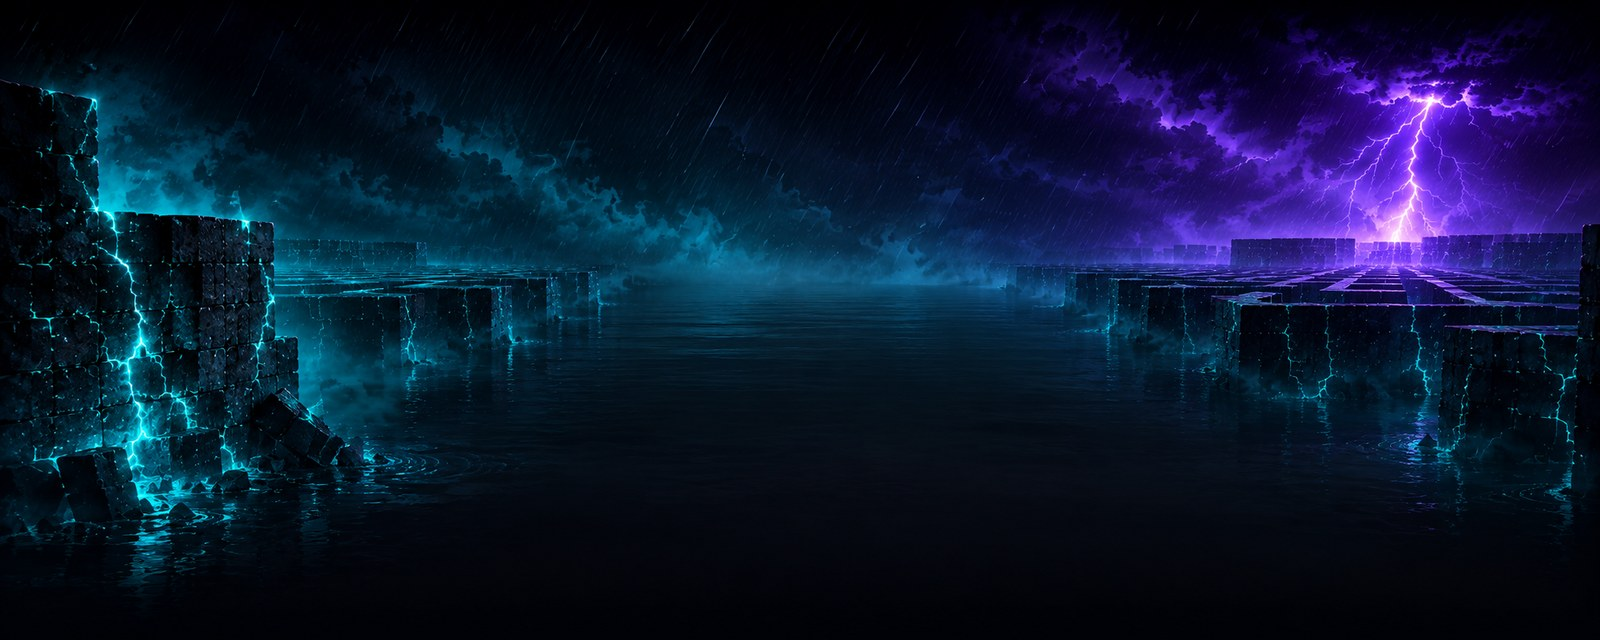
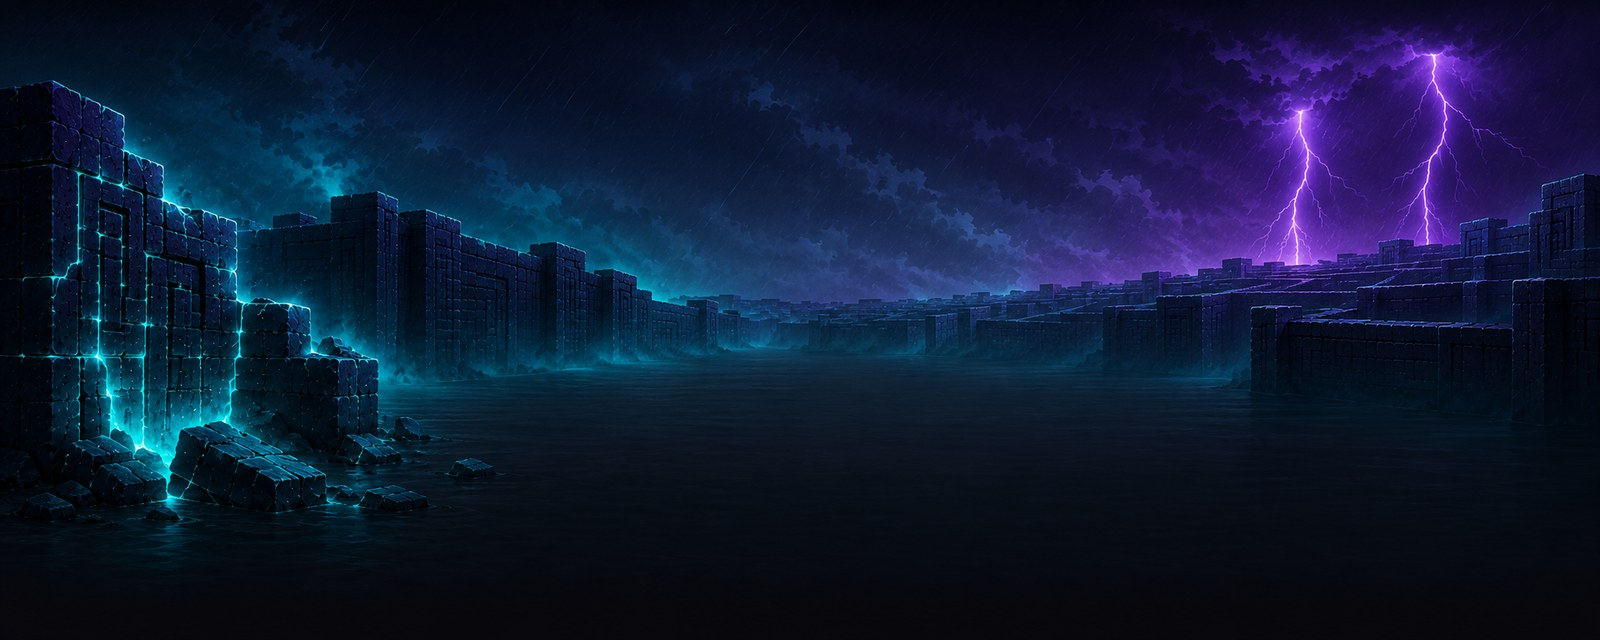
Zwei neue DP-Kauf-Packs (Solfatara 20 / Origami 40) + Voltaris-Rework
Solfatara heisst so, weil das Motiv eine ist: ein Schwefelfeld mit Fumarolen,
Krusten und heissen Becken (nach der Solfatara di Pozzuoli). Damit dieselbe
Sorte Name wie "Salar" (Salzpfanne) und in beiden Sprachen identisch.

Farben aus den leuchtenden Stellen der Motive gemessen. Solfatara lag dabei in
einer echten KOLLISION, und die ist beim Messen aufgefallen, nicht beim
Anschauen: Schwefelgelb h~45 + Dampf-Tuerkis h~175 ist genau das Paar, das
"paradox" seit zwei Wochen traegt. Als Verlauf nebeneinander gerendert waren
die beiden nicht auseinanderzuhalten. Aufgeloest ueber die HELLIGKEIT, nicht
ueber den Farbton (der gehoert dem Bild): Solfatara nimmt das Gelb bei voller
Saettigung -- der schaerfste Gelbton im Register -- und den Dampf als blasse
Minze (L 0,72); Paradox bleibt mattes Gold auf dichtem Meergruen (L 0,40). Der
Verlauf laeuft damit beim einen ins Helle, beim anderen ins Dunkle.

Origami ist der dritte fast unbunte Satz nach Obsidian (kuehl) und Quecksilber
(blau-chrom) und trennt sich als einziger ueber die WAERME: Papierton, leicht
warmes Weiss, vom User gewaehlt. Gemessen werden konnte hier nichts -- das
Motiv ist schwarzweiss; die Farbe ist gesetzt und nicht abgeleitet. a2 ist der
Schattenton desselben Papiers, damit der Verlauf wie eine Faltkante liest.

Voltaris-Rework tauscht nur die vier Bilddateien. a1/a2 bleiben, wie sie sind:
das neue Motiv ist wieder Violett + Cyan, gemessen h~260 und h~187 -- die erst
[…]

diff --git a/src/ui/cosmeticAssets.js b/src/ui/cosmeticAssets.js
@@ -167,6 +167,10 @@ import hanamiFront      from "../assets/cards/decks_player/deck_hanami/front.web
 import hanamiBack       from "../assets/cards/decks_player/deck_hanami/back.webp";
 import nimbusFront      from "../assets/cards/decks_player/deck_nimbus/front.webp";
 import nimbusBack       from "../assets/cards/decks_player/deck_nimbus/back.webp";
+import solfataraFront   from "../assets/cards/decks_player/deck_solfatara/front.webp";
+import solfataraBack    from "../assets/cards/decks_player/deck_solfatara/back.webp";
+import origamiFront     from "../assets/cards/decks_player/deck_origami/front.webp";
+import origamiBack      from "../assets/cards/decks_player/deck_origami/back.webp";
 import bfArcadeDesktop     from "../assets/battlefields/bf_arcade/desktop.jpg";
 import bfArcadeMobile      from "../assets/battlefields/bf_arcade/mobile.jpg";
 import bfPolarlichtDesktop from "../assets/battlefields/bf_polarlicht/desktop.jpg";
@@ -215,6 +219,10 @@ import bfHanamiDesktop      from "../assets/battlefields/bf_hanami/desktop.jpg";
 import bfHanamiMobile       from "../assets/battlefields/bf_hanami/mobile.jpg";
 import bfNimbusDesktop      from "../assets/battlefields/bf_nimbus/desktop.jpg";
 import bfNimbusMobile       from "../assets/battlefields/bf_nimbus/mobile.jpg";
+import bfSolfataraDesktop   from "../assets/battlefields/bf_solfatara/desktop.jpg";
+import bfSolfataraMobile    from "../assets/battlefields/bf_solfatara/mobile.jpg";
+import bfOrigamiDesktop     from "../assets/battlefields/bf_origami/desktop.jpg";
+import bfOrigamiMobile      from "../assets/battlefields/bf_origami/mobile.jpg";
 
 // id → { front, back }. Fällt für unbekannte ids auf DECK_ASSETS.default zurück (siehe deckAssets()).
 export const DECK_ASSETS = {
@@ -272,6 +280,8 @@ export const DECK_ASSETS = {
   deck_paradox:     { front: paradoxFront,     back: paradoxBack },
   deck_hanami:      { front: hanamiFront,      back: hanamiBack },
   deck_nimbus:      { front: nimbusFront,      back: nimbusBack },
+  deck_solfatara:   { front: solfataraFront,   back: solfataraBack },
+  deck_origami:     { front: origamiFront,     back: origamiBack },
 };
 
 // id → Battlefield-Skin (responsive { desktop, mobile }). default = null (aktueller Look ohne
@@ -331,6 +341,8 @@ export const BATTLEFIELD_ASSETS = {
   bf_paradox:     { desktop: bfParadoxDesktop,     mobile: bfParadoxMobile },
   bf_hanami:      { desktop: bfHanamiDesktop,      mobile: bfHanamiMobile },
   bf_nimbus:      { desktop: bfNimbusDesktop,      mobile: bfNimbusMobile },
+  bf_solfatara:   { desktop: bfSolfataraDesktop,   mobile: bfSolfataraMobile },
+  bf_origami:     { desktop: bfOrigamiDesktop,     mobile: bfOrigamiMobile },
 };
 
 export const deckAssets = (id) => DECK_ASSETS[id] || DECK_ASSETS.default;
@@ -346,7 +358,8 @@ export const battlefieldAssets = (id) => BATTLEFIELD_ASSETS[id] || BATTLEFIELD_A
        sie zieht dunkle Bilder hoch und helle herunter.
      · LESBARKEIT ist nirgends das Thema: der schlechteste Kacheltext-Kontrast über alle 40 Decks und
        alle Pixel liegt bei 10,6:1 (WCAG AAA verlangt 7:1). Diese Liste ist eine OPTIK-Entscheidung.
-     · 32 der 40 Decks liegen zwischen 15 und 24. Genau ZWEI fallen sichtbar heraus.
+     · 32 der 40 Decks liegen zwischen 15 und 24. Genau ZWEI fielen damals sichtbar heraus (die Liste
+       unten ist seither auf VIER gewachsen — jeder Zuwachs mit eigener Begründung, s. dort).
 
    Deshalb ein Deckel und keine Normalisierung: hier steht nur, was NACH OBEN begrenzt wird. Dunkle Decks
    bleiben dunkel. Alle Decks auf dieselbe Helligkeit zu ziehen nähme ihnen ihren Charakter — Ascension
@@ -355,15 +368,28 @@ export const battlefieldAssets = (id) => BATTLEFIELD_ASSETS[id] || BATTLEFIELD_A
 
    Der Faktor skaliert die Alpha-Stützstellen des Schleiers (`--vk` in `.as-hub-bg-veil`, index.css);
    die Werte hier bringen ihr Deck rechnerisch auf die Ziel-Helligkeit 24. Ein Eintrag ist eine AUSNAHME —
-   wer hier etwas einträgt, sollte die Messung dazu haben. Nicht eingetragen = Faktor 1. */
+   wer hier etwas einträgt, sollte die Messung dazu haben. Nicht eingetragen = Faktor 1.
+
+   NACHGEMESSEN am 18.08.2026 über 49 Spielfelder (Median 20,8; die Prozente in der Liste unten sind darauf
+   bezogen und darum minimal anders als in den Erstmessungen). Drei Felder sind aus zwei parallelen Sätzen
+   dazugekommen — alle drei nach dem Blick auf den echten Handy-Ausschnitt, nicht allein nach der Zahl:
+     · Origami ist mit 33,0 das zweithellste Feld überhaupt und der einzige fast weiße Hintergrund im
+       Register — ungedämpft blendet er wie Ascension, gedämpft steht er in einer Reihe mit dem Rest.
+     · Solfatara (27,3) und Nimbus (27,1) liegen nur ~30 % über dem Median und wären nach der reinen Zahl
+       Grenzfälle — die Liste hatte die sechs Felder bei 24,1–25,9 (0–8 % darüber) bewusst DRAUSSEN gelassen,
+       weil man dort Rauschen korrigiert. Beide sind trotzdem drin, und zwar wegen der LAGE der Helligkeit,
+       nicht wegen ihrer Höhe: bei Solfatara läuft das Schwefelband waagerecht durch die MITTE des Ausschnitts
+       — also genau durch die Kachelzone — und es ist goldgelb, damit exakt der Fall, den #deck-mobil als
+       offene Schwachstelle benannt hatte („goldener Guthaben-Stripe auf goldgetönter Kachel auf goldenem
+       Bild"); bei Nimbus steht die Quallenglocke als große, gleichmäßig helle Fläche an derselben Stelle.
+       Hanami braucht dagegen keinen Eintrag (22,5 — die Nacht darin ist wirklich dunkel, es leuchten nur
+       Blüten und Lampions). Merksatz: nicht die Höhe der Zahl entscheidet, sondern ob das Helle dort liegt,
+       wo die Kacheln stehen. */
 const BATTLEFIELD_VEIL = {
-  bf_gottgleich: 1.54, // gemessen 35,1 — Median +76 %, mit Abstand der hellste (goldener Lichtdom)
-  bf_pflanze:    1.38, // gemessen 29,0 — Median +46 %, zweiter und letzter sichtbarer Ausreißer
-  /* #deck-nacht: bf_nimbus liegt mit 27,1 zwischen den beiden Gruppen der Messung — über den sechs Feldern bei
-     24,1–25,9 (0–8 % über dem Deckel, bewusst ohne Eintrag: das ist Rauschen) und unter bf_pflanze. Mit 13 % über
-     dem Deckel ist es kein Rauschen mehr: die Quallenglocke ist eine große, gleichmäßig helle Fläche genau dort,
-     wo die Kacheln stehen. Deshalb ein Eintrag. bf_hanami braucht keinen (22,5 — die Nacht darin ist wirklich
-     dunkel, es leuchten nur Blüten und Lampions). */
-  bf_nimbus:     1.28, // gemessen 27,1 — Median +13 %
+  bf_gottgleich: 1.54, // gemessen 35,1 — Median +69 %, mit Abstand der hellste (goldener Lichtdom)
+  bf_origami:    1.57, // gemessen 33,0 — Median +59 %, zweithellster; einziger fast weißer Hintergrund
+  bf_pflanze:    1.38, // gemessen 29,0 — Median +39 %
+  bf_solfatara:  1.37, // gemessen 27,3 — Median +31 %, s. Begründung oben (Lage des hellen Bandes)
+  bf_nimbus:     1.28, // gemessen 27,1 — Median +30 %, s. Begründung oben (Fläche der Quallenglocke)
 };
 export const battlefieldVeil = (id) => BATTLEFIELD_VEIL[id] || 1;

diff --git a/src/game/themes.js b/src/game/themes.js
@@ -342,6 +342,27 @@ export const THEME_DEFS = {
     deckId: "deck_hanami", bfId: "bf_hanami", els: ["deck", "bf"] },
   nimbus: { id: "nimbus", name: packName("deck_nimbus"), emblem: "🪼", kind: "buy", price: 10, a1: "#9558e0", a2: "#ff77b0",
     deckId: "deck_nimbus", bfId: "bf_nimbus", els: ["deck", "bf"] },
+  /* ---- #deck-papier zwei DP-Kauf-Packs ----
+     SOLFATARA stand bei der Wahl in einer echten FARBKOLLISION, und die ist beim Messen aufgefallen, nicht beim
+     Anschauen: das Motiv (Schwefelkrusten + türkiser Dampf) ergibt gemessen h≈45 + h≈175 — und genau dieses Paar
+     trug `paradox` damals (#e0b83c / #16b8a4). Als Verlauf nebeneinander gerendert waren die beiden nicht
+     auseinanderzuhalten. Aufgelöst wurde das über die HELLIGKEIT statt über den Farbton, weil der Farbton dem Bild
+     gehört: Solfatara nimmt das Gelb bei voller Sättigung — s=1,00, der schärfste Gelbton im ganzen Register
+     (gottgleich 0,77 · geometrie ebenfalls 1,00, aber als blasses Creme auf L=0,77) — und den Dampf als BLASSE
+     Minze (L=0,72). Der Verlauf läuft damit ins Helle.
+     NACHTRAG: Paradox ist inzwischen auf die Scarab-Palette gezogen (a1 Türkis, a2 Gold) und die Kollision damit
+     von der anderen Seite ohnehin aufgelöst — die zwei Verläufe laufen jetzt in entgegengesetzte Richtungen. Die
+     Werte hier bleiben trotzdem, wie sie sind: sie sind aus dem Bild begründet, nicht aus dem Ausweichen.
+     ORIGAMI ist der VIERTE fast unbunte Satz — nach Obsidian (217°), Quecksilber (210°) und Salar (213°), die
+     inzwischen alle drei auf kühlem Silber liegen. Er trennt sich als einziger über die WÄRME: Papierton, leicht
+     warmes Weiß (37°) — vom User so gewählt. Gemessen werden konnte hier nichts, das Motiv ist schwarzweiß; die
+     Farbe ist deshalb gesetzt und nicht abgeleitet. `a2` ist der Schattenton desselben Papiers, damit der Verlauf
+     wie eine Faltkante liest statt wie ein zweiter Farbwert. Wer nachdreht: unter L≈0,60 kippt `a2` von „Papier
+     im Schatten" nach „schmutziges Beige". */
+  solfatara:   { id: "solfatara",   name: packName("deck_solfatara"),   emblem: "🌋", kind: "buy", price: 20, a1: "#ffd400", a2: "#8fe0cf",
+    deckId: "deck_solfatara",   bfId: "bf_solfatara",   els: ["deck", "bf"] },
+  origami:     { id: "origami",     name: packName("deck_origami"),     emblem: "🕊", kind: "buy", price: 40, a1: "#f4ecdd", a2: "#c9bda6",
+    deckId: "deck_origami",     bfId: "bf_origami",     els: ["deck", "bf"] },
 };
 
 export const THEMES = Object.values(THEME_DEFS);

diff --git a/src/game/cosmetics.js b/src/game/cosmetics.js
@@ -99,6 +99,11 @@ export const DECK_DEFS = {
   // #deck-nacht zwei DP-Kauf-Packs: Hanami (30 DP) · Nimbus (10 DP).
   deck_hanami: { id: "deck_hanami", name: "Hanami", unlock: { kind: "buy", ownKey: "pack:hanami" } },
   deck_nimbus: { id: "deck_nimbus", name: "Nimbus", unlock: { kind: "buy", ownKey: "pack:nimbus" } },
+  /* #deck-papier zwei DP-Kauf-Packs: Solfatara (20 DP) · Origami (40 DP). „Solfatara" ist der geologische Name
+     für ein Schwefelfeld mit Fumarolen und heißen Becken (Solfatara di Pozzuoli) — dieselbe Sorte Name wie
+     „Salar" (Salzpfanne) und in beiden Sprachen identisch geschrieben. Das Motiv IST eine Solfatara. */
+  deck_solfatara:   { id: "deck_solfatara",   name: "Solfatara",   unlock: { kind: "buy", ownKey: "pack:solfatara" } },
+  deck_origami:     { id: "deck_origami",     name: "Origami",     unlock: { kind: "buy", ownKey: "pack:origami" } },
 };
 
 /* Sprachprüfung: Der Spielfeld-Name ist der DECK-Name plus Suffix. Vorher stand jeder der 27 Namen
@@ -170,6 +175,9 @@ export const BATTLEFIELD_DEFS = {
   // #deck-nacht Battlefields (gleicher Besitz-Schlüssel wie das Deck):
   bf_hanami: { id: "bf_hanami", name: bfName("deck_hanami"), unlock: { kind: "buy", ownKey: "pack:hanami" } },
   bf_nimbus: { id: "bf_nimbus", name: bfName("deck_nimbus"), unlock: { kind: "buy", ownKey: "pack:nimbus" } },
+  // #deck-papier Battlefields (gleicher Besitz-Schlüssel wie das Deck):
+  bf_solfatara:   { id: "bf_solfatara",   name: bfName("deck_solfatara"),   unlock: { kind: "buy", ownKey: "pack:solfatara" } },
+  bf_origami:     { id: "bf_origami",     name: bfName("deck_origami"),     unlock: { kind: "buy", ownKey: "pack:origami" } },
 };
 
 // Tausender-Punkte ohne ICU-Abhängigkeit (node-Tests deterministisch): 10000000 → "10.000.000".

diff --git a/src/i18n/enCosmetics.js b/src/i18n/enCosmetics.js
@@ -78,6 +78,11 @@ export default {
      both languages (the rain cloud and the halo), which is exactly the picture: a glowing bell above the city. */
   "cosmetic.deck_hanami.name": "Hanami",
   "cosmetic.deck_nimbus.name": "Nimbus",
+  /* #deck-papier — beide Namen sind Eigennamen und bleiben in beiden Sprachen gleich. „Solfatara" ist der
+     geologische Fachbegriff für ein Schwefelfeld mit Fumarolen (nach der Solfatara di Pozzuoli) und wird
+     im Englischen genauso geschrieben — dieselbe Sorte Name wie „Salar". „Origami" (折り紙) ebenso. */
+  "cosmetic.deck_solfatara.name": "Solfatara",
+  "cosmetic.deck_origami.name": "Origami",
 
   /* ---- Global effects (deck workshop) ----
      These are sales copy: they describe what the player will see. Effect over literalness —
